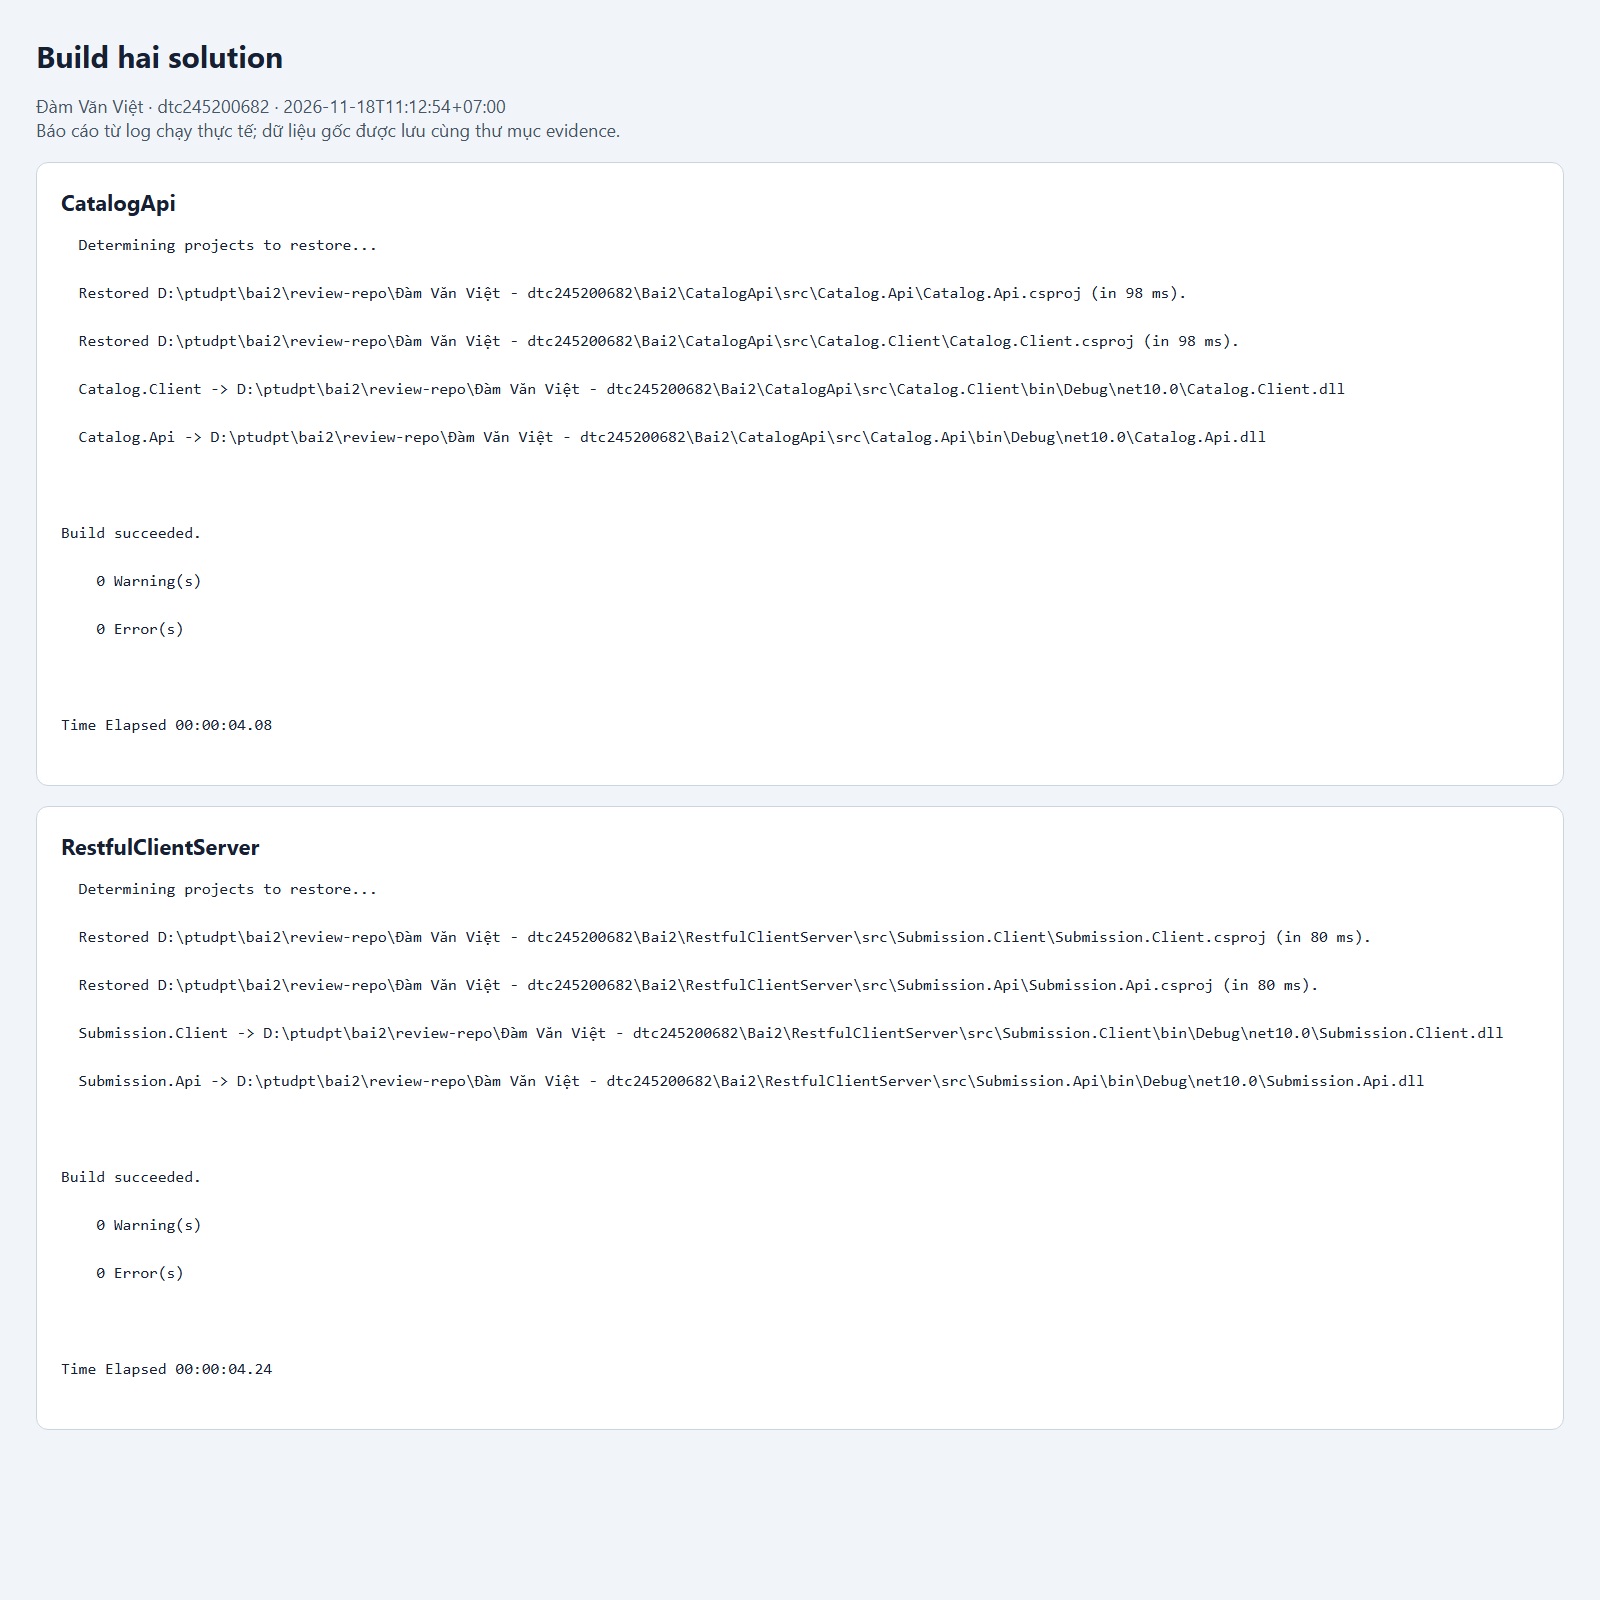
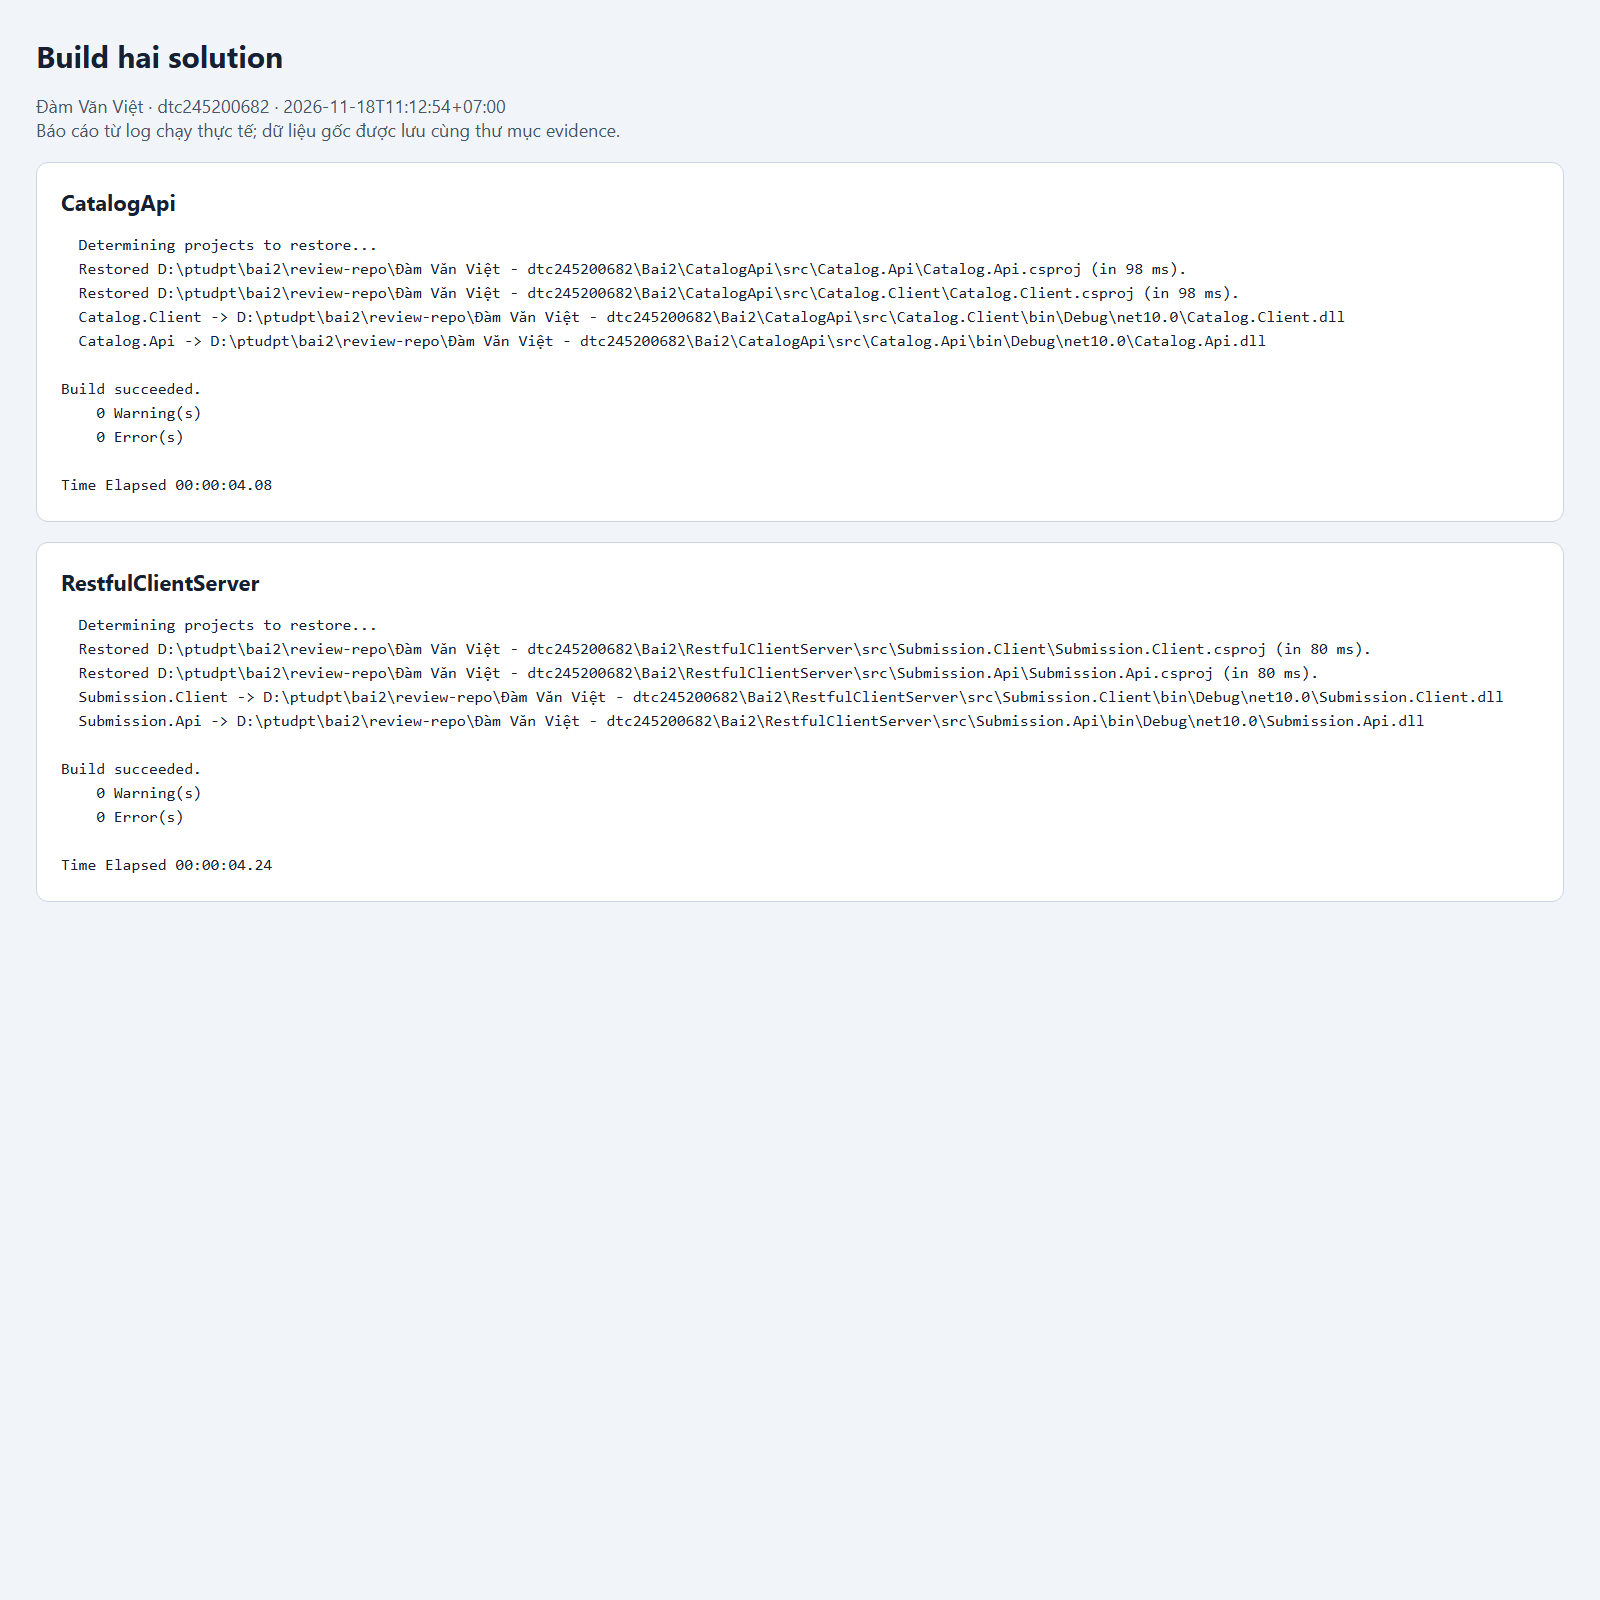
Bai2: chuan hoa UTF-8 va xuong dong bao cao minh chung

diff --git a/Đàm Văn Việt - dtc245200682/Bai2/evidence/build.html b/Đàm Văn Việt - dtc245200682/Bai2/evidence/build.html
@@ -4,26 +4,26 @@ section{background:white;border:1px solid #cbd5e1;border-radius:12px;padding:24p
 pre{white-space:pre-wrap;overflow-wrap:anywhere;font:16px Consolas,monospace;line-height:1.5;margin:0}
 table{border-collapse:collapse;width:100%;background:white;font-size:17px}
 th,td{border:1px solid #cbd5e1;padding:9px;text-align:left}th{background:#dbeafe}
-.meta{color:#475569}.ok{color:#166534;font-weight:700}</style><h1>Build hai solution</h1><p class="meta">Đàm Văn Việt · dtc245200682 · 2026-11-18T11:12:54+07:00<br>Báo cáo từ log chạy thực tế; dữ liệu gốc được lưu cùng thư mục evidence.</p><section><h2>CatalogApi</h2><pre>  Determining projects to restore...
-  Restored D:\ptudpt\bai2\review-repo\Đàm Văn Việt - dtc245200682\Bai2\CatalogApi\src\Catalog.Api\Catalog.Api.csproj (in 98 ms).
-  Restored D:\ptudpt\bai2\review-repo\Đàm Văn Việt - dtc245200682\Bai2\CatalogApi\src\Catalog.Client\Catalog.Client.csproj (in 98 ms).
-  Catalog.Client -&gt; D:\ptudpt\bai2\review-repo\Đàm Văn Việt - dtc245200682\Bai2\CatalogApi\src\Catalog.Client\bin\Debug\net10.0\Catalog.Client.dll
-  Catalog.Api -&gt; D:\ptudpt\bai2\review-repo\Đàm Văn Việt - dtc245200682\Bai2\CatalogApi\src\Catalog.Api\bin\Debug\net10.0\Catalog.Api.dll
-
-Build succeeded.
-    0 Warning(s)
-    0 Error(s)
-
-Time Elapsed 00:00:04.08
-</pre></section><section><h2>RestfulClientServer</h2><pre>  Determining projects to restore...
-  Restored D:\ptudpt\bai2\review-repo\Đàm Văn Việt - dtc245200682\Bai2\RestfulClientServer\src\Submission.Client\Submission.Client.csproj (in 80 ms).
-  Restored D:\ptudpt\bai2\review-repo\Đàm Văn Việt - dtc245200682\Bai2\RestfulClientServer\src\Submission.Api\Submission.Api.csproj (in 80 ms).
-  Submission.Client -&gt; D:\ptudpt\bai2\review-repo\Đàm Văn Việt - dtc245200682\Bai2\RestfulClientServer\src\Submission.Client\bin\Debug\net10.0\Submission.Client.dll
-  Submission.Api -&gt; D:\ptudpt\bai2\review-repo\Đàm Văn Việt - dtc245200682\Bai2\RestfulClientServer\src\Submission.Api\bin\Debug\net10.0\Submission.Api.dll
-
-Build succeeded.
-    0 Warning(s)
-    0 Error(s)
-
-Time Elapsed 00:00:04.24
+.meta{color:#475569}.ok{color:#166534;font-weight:700}</style><h1>Build hai solution</h1><p class="meta">Đàm Văn Việt · dtc245200682 · 2026-11-18T11:12:54+07:00<br>Báo cáo từ log chạy thực tế; dữ liệu gốc được lưu cùng thư mục evidence.</p><section><h2>CatalogApi</h2><pre>  Determining projects to restore...
+  Restored D:\ptudpt\bai2\review-repo\Đàm Văn Việt - dtc245200682\Bai2\CatalogApi\src\Catalog.Api\Catalog.Api.csproj (in 98 ms).
+  Restored D:\ptudpt\bai2\review-repo\Đàm Văn Việt - dtc245200682\Bai2\CatalogApi\src\Catalog.Client\Catalog.Client.csproj (in 98 ms).
+  Catalog.Client -&gt; D:\ptudpt\bai2\review-repo\Đàm Văn Việt - dtc245200682\Bai2\CatalogApi\src\Catalog.Client\bin\Debug\net10.0\Catalog.Client.dll
+  Catalog.Api -&gt; D:\ptudpt\bai2\review-repo\Đàm Văn Việt - dtc245200682\Bai2\CatalogApi\src\Catalog.Api\bin\Debug\net10.0\Catalog.Api.dll
+
+Build succeeded.
+    0 Warning(s)
+    0 Error(s)
+
+Time Elapsed 00:00:04.08
+</pre></section><section><h2>RestfulClientServer</h2><pre>  Determining projects to restore...
+  Restored D:\ptudpt\bai2\review-repo\Đàm Văn Việt - dtc245200682\Bai2\RestfulClientServer\src\Submission.Client\Submission.Client.csproj (in 80 ms).
+  Restored D:\ptudpt\bai2\review-repo\Đàm Văn Việt - dtc245200682\Bai2\RestfulClientServer\src\Submission.Api\Submission.Api.csproj (in 80 ms).
+  Submission.Client -&gt; D:\ptudpt\bai2\review-repo\Đàm Văn Việt - dtc245200682\Bai2\RestfulClientServer\src\Submission.Client\bin\Debug\net10.0\Submission.Client.dll
+  Submission.Api -&gt; D:\ptudpt\bai2\review-repo\Đàm Văn Việt - dtc245200682\Bai2\RestfulClientServer\src\Submission.Api\bin\Debug\net10.0\Submission.Api.dll
+
+Build succeeded.
+    0 Warning(s)
+    0 Error(s)
+
+Time Elapsed 00:00:04.24
 </pre></section></html>

diff --git a/Đàm Văn Việt - dtc245200682/Bai2/evidence/clients.html b/Đàm Văn Việt - dtc245200682/Bai2/evidence/clients.html
@@ -4,24 +4,24 @@ section{background:white;border:1px solid #cbd5e1;border-radius:12px;padding:24p
 pre{white-space:pre-wrap;overflow-wrap:anywhere;font:16px Consolas,monospace;line-height:1.5;margin:0}
 table{border-collapse:collapse;width:100%;background:white;font-size:17px}
 th,td{border:1px solid #cbd5e1;padding:9px;text-align:left}th{background:#dbeafe}
-.meta{color:#475569}.ok{color:#166534;font-weight:700}</style><h1>Hai client: xem → tạo → đọc Location → thử lỗi</h1><p class="meta">Đàm Văn Việt · dtc245200682 · 2026-11-18T11:12:54+07:00<br>Báo cáo từ log chạy thực tế; dữ liệu gốc được lưu cùng thư mục evidence.</p><section><h2>Catalog.Client — lần 1</h2><pre>1. HTTP 200 - Danh sach san pham:
-[1] Giao trinh Lap trinh phan tan - 150,000 VND
-[2] Tai lieu RESTful API - 90,000 VND
-[3] Bai tap thuc hanh .NET - 120,000 VND
-[4] Lap trinh gRC - 80,000 VND
-[5] Lap trinh gRC - 80,000 VND
-2. HTTP 201 - Da tao: [6] Nhap mon REST API; Location: /api/products/6
-3. HTTP 200 - Doc lai: [6] Nhap mon REST API
-4. Thu gui du lieu sai:
-HTTP 400 BadRequest
-INVALID_PRODUCT: Ten san pham khong duoc de trong va gia phai lon hon 0
-</pre></section><section><h2>Submission.Client — lần 1</h2><pre>1. HTTP 200 - Danh sach bai tap dang mo:
-- 1: Bai tap REST API
-- 2: Bai tap Client
-2. HTTP 201 - Da tao luot nop: 298a1e85-1fe2-41de-abc5-0f13049d3af0; trang thai: received
-Location: /api/submissions/298a1e85-1fe2-41de-abc5-0f13049d3af0
-3. HTTP 200 - Doc lai luot nop: SV001 - https://example.com/sv001/rest-api
-4. Thu gui yeu cau loi:
-HTTP 400 BadRequest
-INVALID_SUBMISSION: Thieu ma sinh vien hoac kho ma nguon.
+.meta{color:#475569}.ok{color:#166534;font-weight:700}</style><h1>Hai client: xem → tạo → đọc Location → thử lỗi</h1><p class="meta">Đàm Văn Việt · dtc245200682 · 2026-11-18T11:12:54+07:00<br>Báo cáo từ log chạy thực tế; dữ liệu gốc được lưu cùng thư mục evidence.</p><section><h2>Catalog.Client — lần 1</h2><pre>1. HTTP 200 - Danh sach san pham:
+[1] Giao trinh Lap trinh phan tan - 150,000 VND
+[2] Tai lieu RESTful API - 90,000 VND
+[3] Bai tap thuc hanh .NET - 120,000 VND
+[4] Lap trinh gRC - 80,000 VND
+[5] Lap trinh gRC - 80,000 VND
+2. HTTP 201 - Da tao: [6] Nhap mon REST API; Location: /api/products/6
+3. HTTP 200 - Doc lai: [6] Nhap mon REST API
+4. Thu gui du lieu sai:
+HTTP 400 BadRequest
+INVALID_PRODUCT: Ten san pham khong duoc de trong va gia phai lon hon 0
+</pre></section><section><h2>Submission.Client — lần 1</h2><pre>1. HTTP 200 - Danh sach bai tap dang mo:
+- 1: Bai tap REST API
+- 2: Bai tap Client
+2. HTTP 201 - Da tao luot nop: 298a1e85-1fe2-41de-abc5-0f13049d3af0; trang thai: received
+Location: /api/submissions/298a1e85-1fe2-41de-abc5-0f13049d3af0
+3. HTTP 200 - Doc lai luot nop: SV001 - https://example.com/sv001/rest-api
+4. Thu gui yeu cau loi:
+HTTP 400 BadRequest
+INVALID_SUBMISSION: Thieu ma sinh vien hoac kho ma nguon.
 </pre></section></html>

diff --git a/Đàm Văn Việt - dtc245200682/Bai2/verify-api.py b/Đàm Văn Việt - dtc245200682/Bai2/verify-api.py
@@ -43,7 +43,7 @@ def client(project,base,label):
     assert 'HTTP 201' in result.stdout and 'HTTP 400' in result.stdout,result.stdout
     assert ('INVALID_PRODUCT' if project.name=='Catalog.Client' else 'INVALID_SUBMISSION') in result.stdout
     logs.append('\n'+label+'\n'+result.stdout)
-    (evidence/(label.replace(' ', '-')+'.txt')).write_text(result.stdout,encoding='utf-8')
+    (evidence/(label.replace(' ', '-')+'.txt')).write_text(result.stdout,encoding='utf-8',newline='\n')
 
 def run_http_file(file,base):
     """Execute the checked-in REST Client cases, including named response IDs and JSON files."""
@@ -160,6 +160,6 @@ for kind,folder,port in [('Catalog','CatalogApi',15100),('Submission','RestfulCl
     finally: p.terminate();p.wait(timeout=10)
     failure_client_cases(Path(folder)/'src'/f'{kind}.Client')
 logs.append(f'PASS: {len(responses)} HTTP assertions; 29 checked-in HTTP requests; 4 complete client runs; 2 stopped-API, 2 wrong-port, 10 client error cases; 2 RAM reset checks.')
-(root/'verification-results.txt').write_text('\n'.join(logs),encoding='utf-8')
-(evidence/'http-responses.json').write_text(json.dumps({'verified_at':stamp,'responses':responses},ensure_ascii=False,indent=2),encoding='utf-8')
+(root/'verification-results.txt').write_text('\n'.join(logs),encoding='utf-8',newline='\n')
+(evidence/'http-responses.json').write_text(json.dumps({'verified_at':stamp,'responses':responses},ensure_ascii=False,indent=2),encoding='utf-8',newline='\n')
 print('\n'.join(logs))

diff --git a/Đàm Văn Việt - dtc245200682/Bai2/create-evidence.py b/Đàm Văn Việt - dtc245200682/Bai2/create-evidence.py
@@ -12,7 +12,8 @@ stamp = data['verified_at']
 
 def text_file(name):
     raw = (out / name).read_bytes()
-    return raw.decode('utf-16') if raw.startswith(b'\xff\xfe') else raw.decode('utf-8-sig')
+    text = raw.decode('utf-16') if raw.startswith(b'\xff\xfe') else raw.decode('utf-8-sig')
+    return text.replace('\r\n', '\n').replace('\r', '')
 
 def panel(title, content):
     return f'<section><h2>{escape(title)}</h2><pre>{escape(content)}</pre></section>'
@@ -50,7 +51,7 @@ for name, (title, body) in pages.items():
     page.write_text(f'<!doctype html><html lang="vi"><meta charset="utf-8"><title>{escape(title)}</title>'
                     f'<style>{style}</style><h1>{escape(title)}</h1>'
                     f'<p class="meta">Đàm Văn Việt · dtc245200682 · {escape(stamp)}<br>'
-                    'Báo cáo từ log chạy thực tế; dữ liệu gốc được lưu cùng thư mục evidence.</p>' + body + '</html>', encoding='utf-8')
+                    'Báo cáo từ log chạy thực tế; dữ liệu gốc được lưu cùng thư mục evidence.</p>' + body + '</html>', encoding='utf-8', newline='\n')
     if browser:
         height = 400 + 46 * (len(data['responses']) + 1) if name == 'http' else 1600
         result = subprocess.run([str(browser), '--headless', '--disable-gpu', '--no-first-run',
